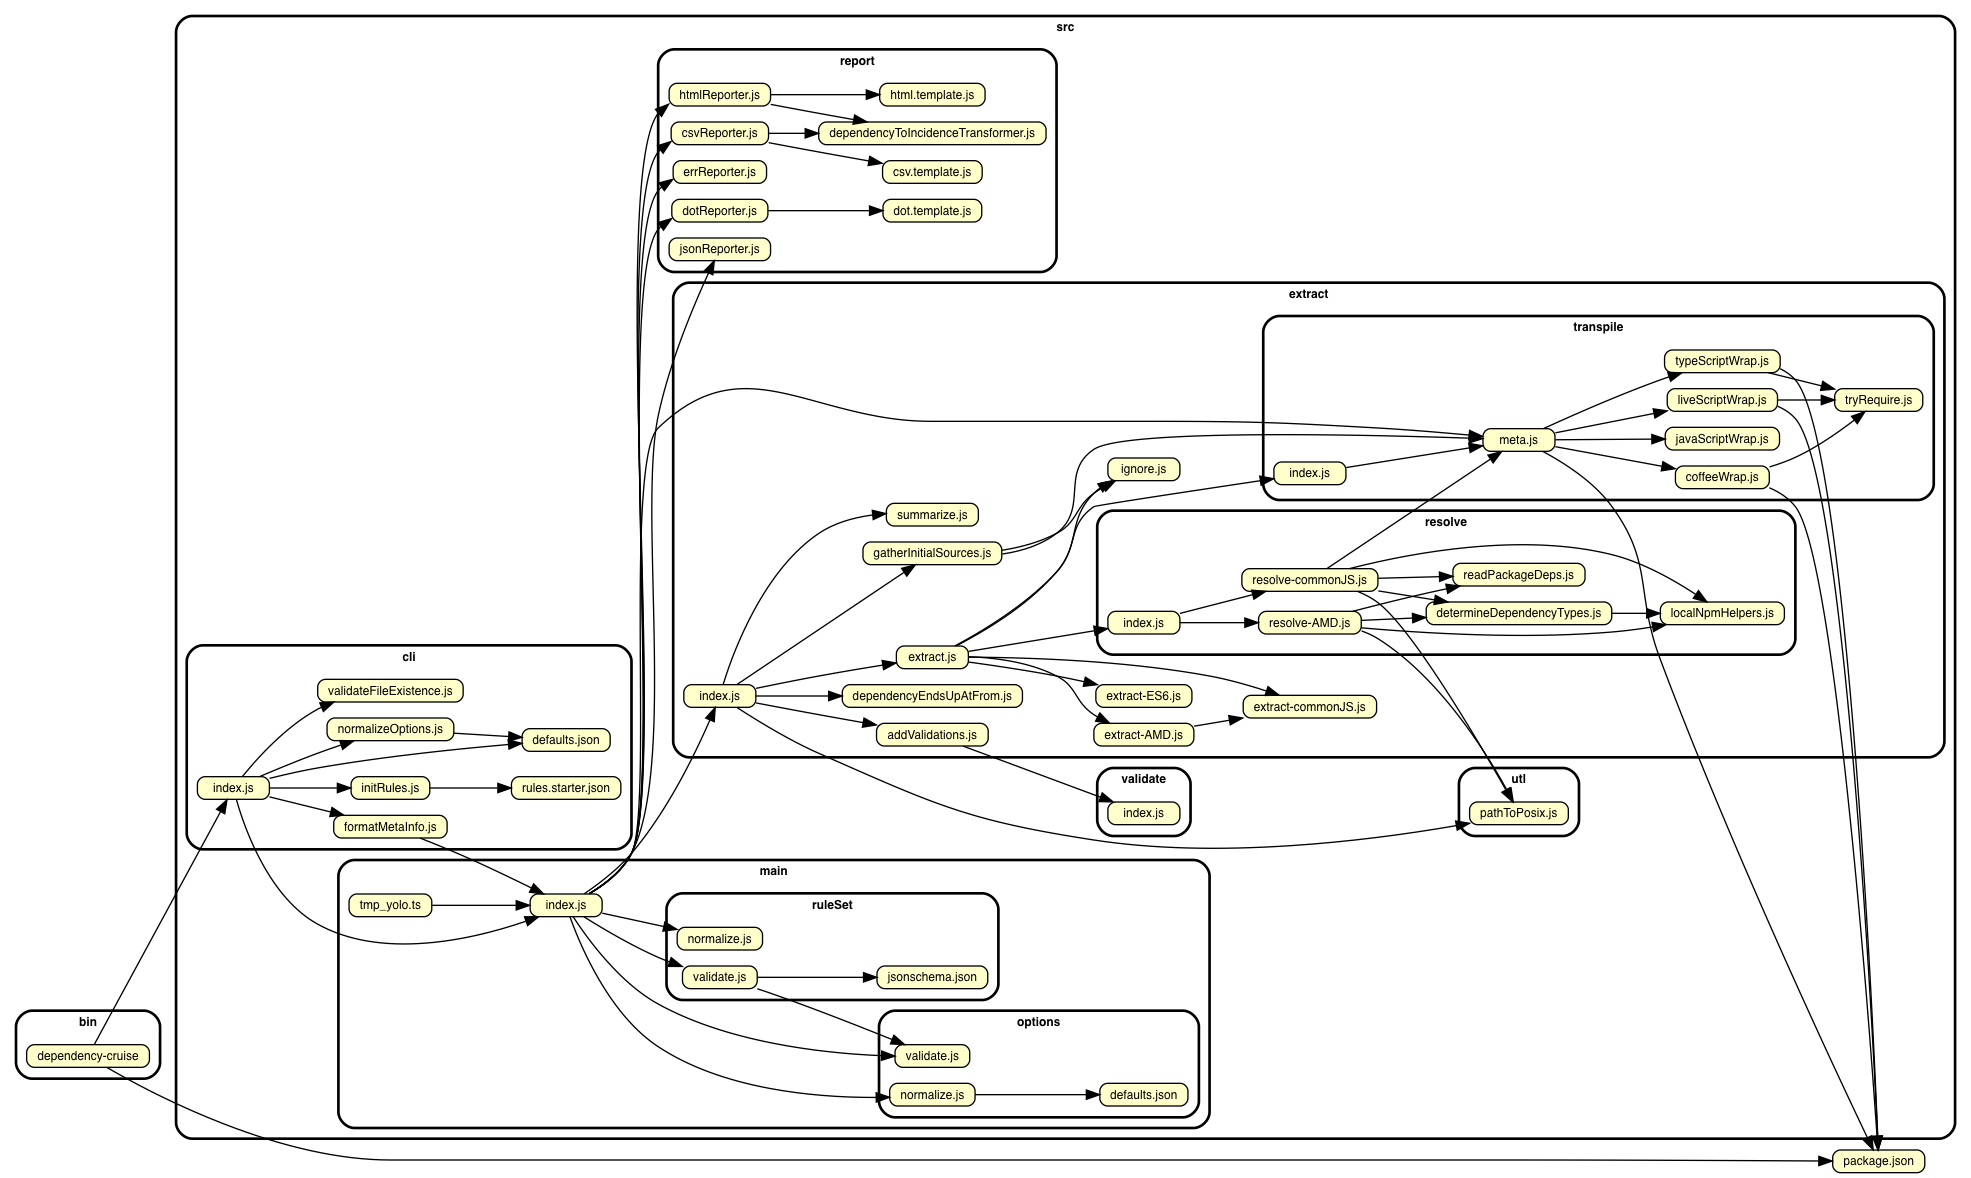
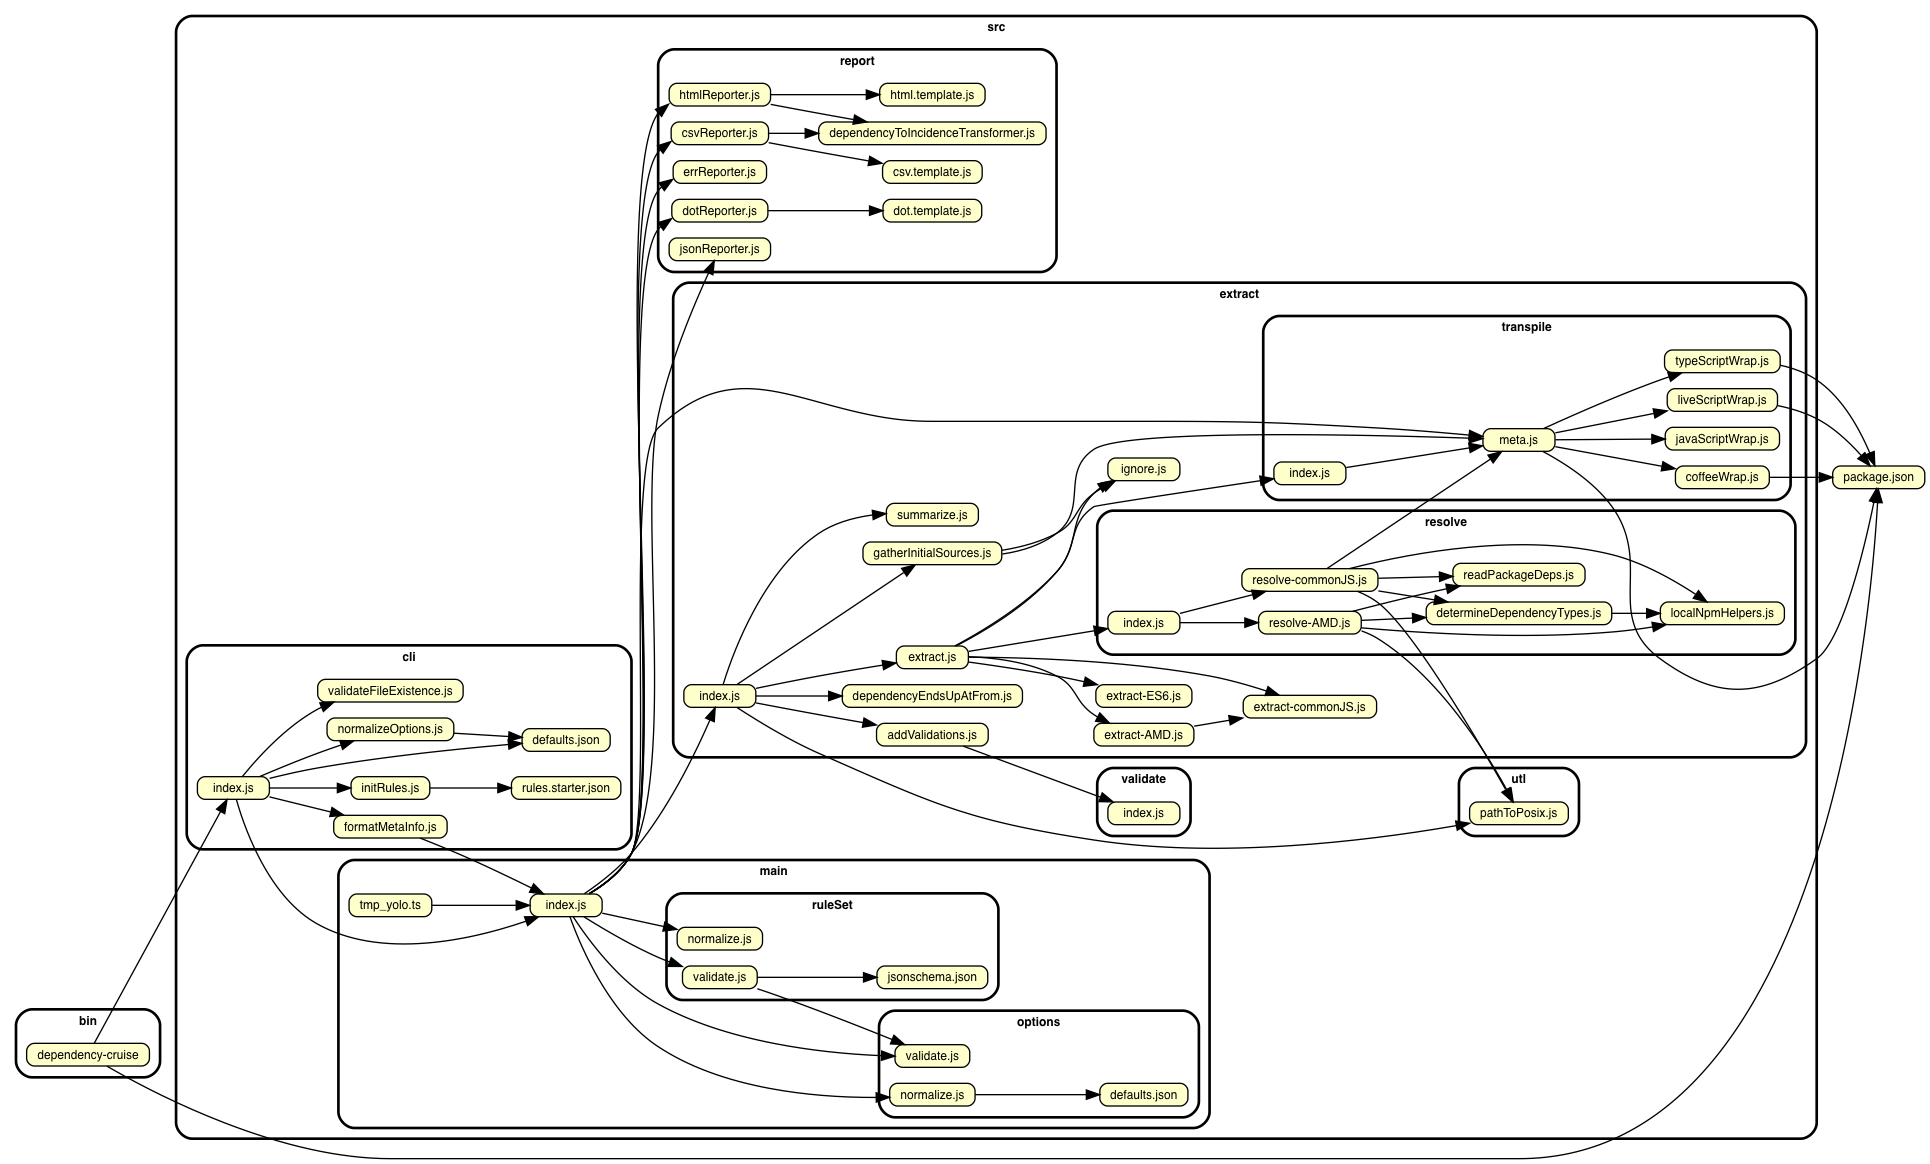
refactor(transpile): use semver-try-require instead of internal tryRequire

diff --git a/src/extract/transpile/liveScriptWrap.js b/src/extract/transpile/liveScriptWrap.js
@@ -1,6 +1,6 @@
 "use strict";
 
-const tryRequire = require("./tryRequire");
+const tryRequire = require("semver-try-require");
 const livescript = tryRequire(
     "livescript",
     require("../../../package.json").supportedTranspilers.livescript

diff --git a/src/extract/transpile/typeScriptWrap.js b/src/extract/transpile/typeScriptWrap.js
@@ -1,5 +1,5 @@
 "use strict";
-const tryRequire = require("./tryRequire");
+const tryRequire = require("semver-try-require");
 const typescript = tryRequire(
     "typescript",
     require("../../../package.json").supportedTranspilers.typescript

diff --git a/src/extract/transpile/coffeeWrap.js b/src/extract/transpile/coffeeWrap.js
@@ -1,5 +1,5 @@
 "use strict";
-const tryRequire   = require("./tryRequire");
+const tryRequire   = require("semver-try-require");
 const $package     = require("../../../package.json");
 
 /*
